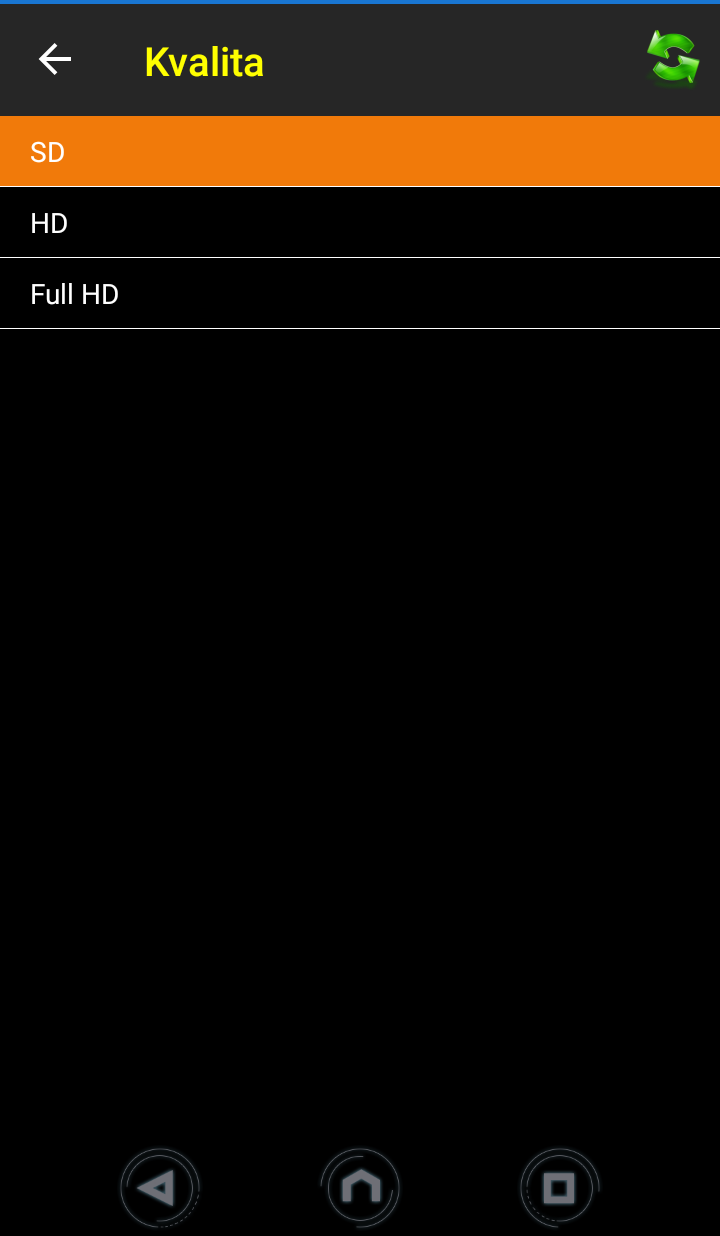
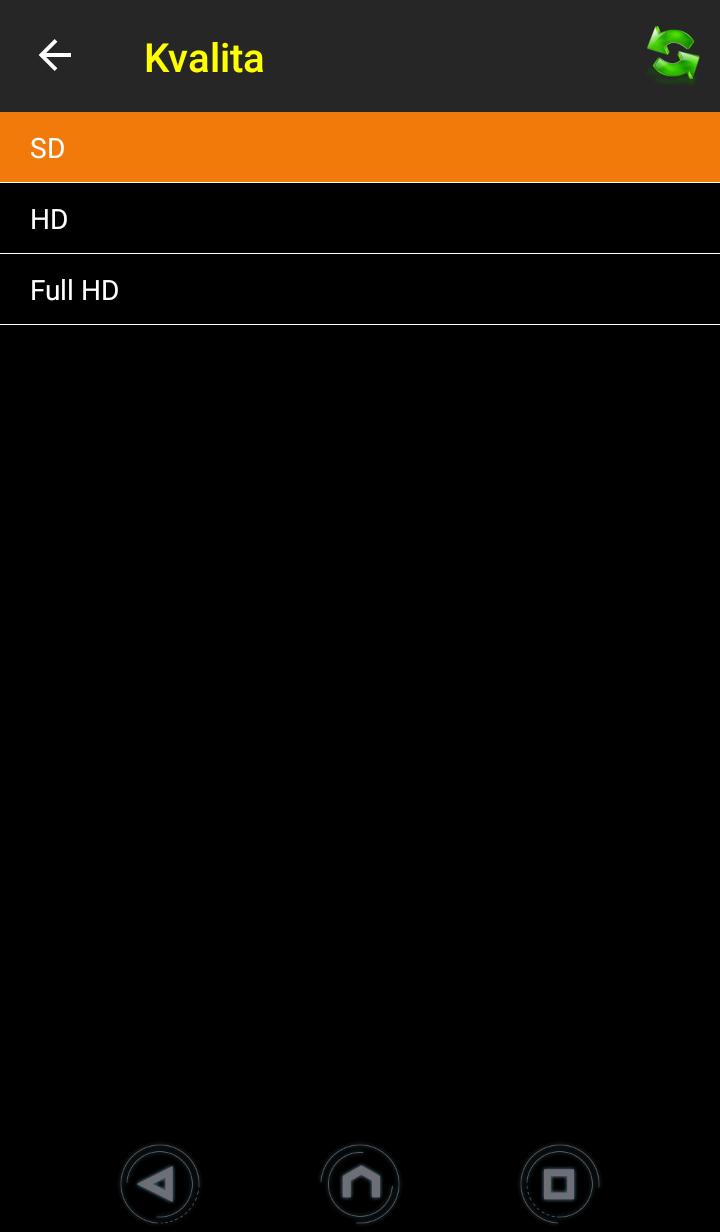
Screenshots & readme

Changed region(s): [[0.0, 0.0, 1.0, 0.0925], [0.0, 0.0925, 1.0, 0.2468], [0.1222, 0.2159, 0.1833, 0.2468]]

diff --git a/README.md b/README.md
@@ -13,6 +13,8 @@ Unofficial Android client for czech IPTV SledovaniTV
 - using external player
 - for Android 5.0 and higher
 
-![ScreenShot](https://raw.github.com/petrj/SledovaniTVPlayer/master/Screens/Screenshot.png)
-![ScreenShot2](https://raw.github.com/petrj/SledovaniTVPlayer/master/Screens/Screenshot2.png)
-![ScreenShot3](https://raw.github.com/petrj/SledovaniTVPlayer/master/Screens/Screenshot3.png)
+![ScreenShot](https://raw.github.com/petrj/SledovaniTVPlayer/master/Screens/Screenshot.png){:width="50%"}
+
+![ScreenShot2](https://raw.github.com/petrj/SledovaniTVPlayer/master/Screens/Screenshot2.png){:width="50%"}
+
+![ScreenShot3](https://raw.github.com/petrj/SledovaniTVPlayer/master/Screens/Screenshot3.png){:width="50%"}
